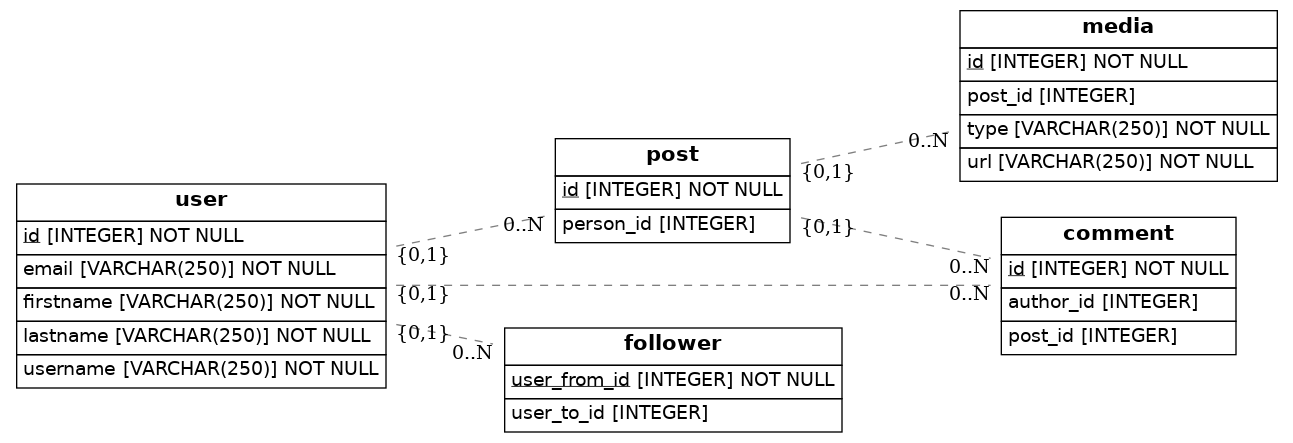
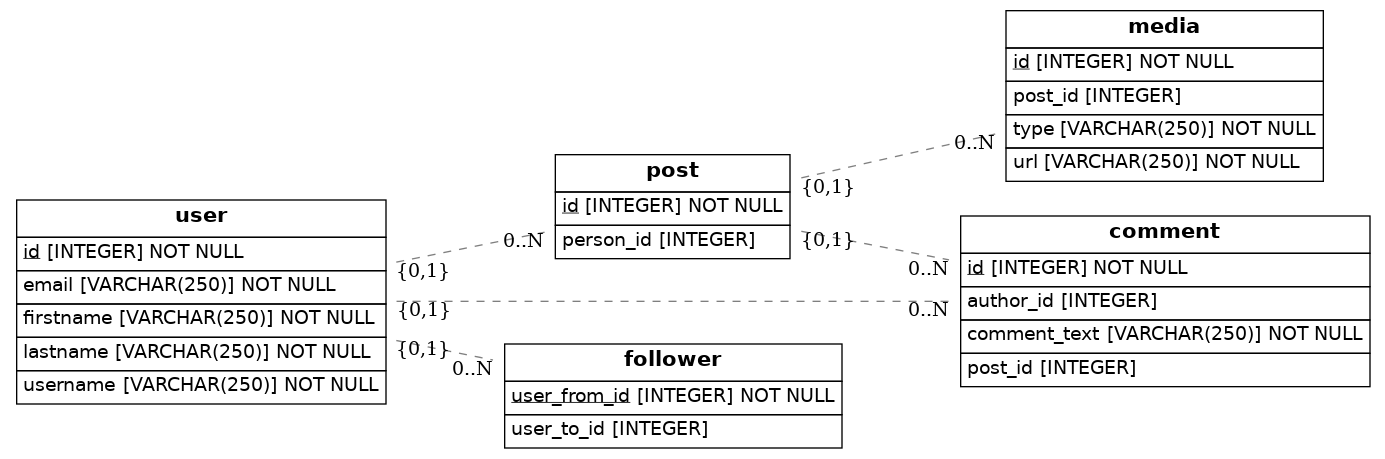
finished

diff --git a/src/models.py b/src/models.py
@@ -28,6 +28,7 @@ class Comment(Base):
     id = Column(Integer, primary_key=True)
     author_id = Column(Integer, ForeignKey('user.id'))
     post_id =  Column(Integer, ForeignKey('post.id'))
+    comment_text = Column(String(250), nullable = False)
 
 class Media(Base):
     __tablename__ = 'media'
@@ -42,6 +43,8 @@ class Follower(Base):
 
     user_from_id = Column(Integer, primary_key=True)
     user_to_id = Column(Integer, ForeignKey('user.id'))
+
+    
 
     
 
